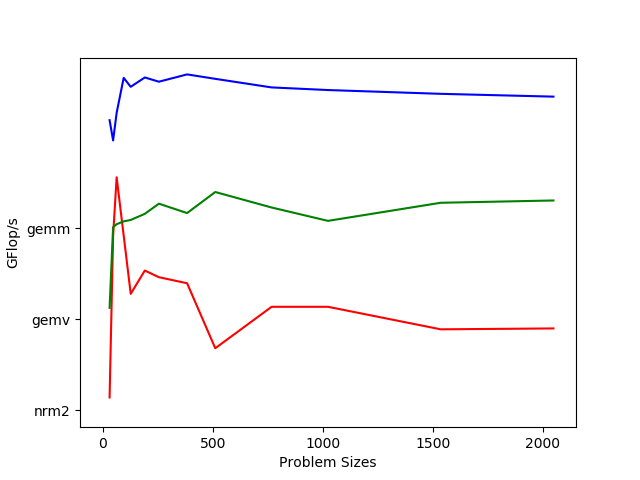
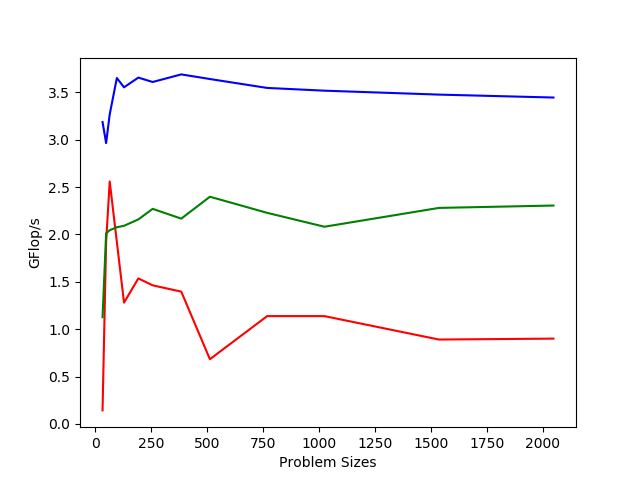
Refine ex1 and ex2 documents

diff --git a/ex2/plot.rb b/ex2/plot.rb
@@ -1,0 +1,34 @@
+#!/usr/bin/env ruby
+
+require 'csv'
+require 'matplotlib/pyplot'
+
+times = CSV.parse(File.read('ex2.csv'))
+
+0.upto(times.size - 1) do |i|
+  times[i] = times[i].map { |x| x.to_f}
+end
+
+getrf_n_gflop = times[0].map { |size| (1.0 / 6.0) * size * (size + 1) * (4.0 * size + 5) }
+getrf_p_gflop = times[0].map { |size| (1.0 / 6.0) * size * (size + 1) * (4.0 * size + 5) }
+
+getrf_n_perf = []
+getrf_p_perf = []
+
+getrf_n_gflop.each_with_index do |gflop, idx|
+  getrf_n_perf << gflop / times[1][idx]
+end
+
+getrf_p_gflop.each_with_index do |gflop, idx|
+  getrf_p_perf << gflop / times[2][idx]
+end
+
+plt = Matplotlib::Pyplot
+
+plt.xlabel("Problem Sizes")
+plt.ylabel("GFlop/s")
+
+line1 = plt.plot(times[0], getrf_n_perf, 'g')
+line2 = plt.plot(times[0], getrf_p_perf, 'b')
+
+plt.savefig('ex2.png')

diff --git a/ex1/plot.rb b/ex1/plot.rb
@@ -34,10 +34,8 @@ plt = Matplotlib::Pyplot
 plt.xlabel("Problem Sizes")
 plt.ylabel("GFlop/s")
 
-plt.plot(times[0], nrm2_perf, 'r', label='nrm2')
-plt.plot(times[0], gemv_perf, 'g', label='gemv')
-plt.plot(times[0], gemm_perf, 'b', label='gemm')
-
-plt.legend()
+plt.plot(times[0], nrm2_perf, 'r')
+plt.plot(times[0], gemv_perf, 'g')
+plt.plot(times[0], gemm_perf, 'b')
 
 plt.savefig('ex1.png')

diff --git a/ex2/ex2.cpp b/ex2/ex2.cpp
@@ -4,7 +4,6 @@
 #include <algorithm>
 #include <numeric>
 #include <chrono>
-#include <functional>
 
 template <typename T>
 void getrf(int n, T* A, int lda) noexcept {

diff --git a/ex2/README.md b/ex2/README.md
@@ -1,0 +1,22 @@
+HPSC 2018 Exercise 2
+====================
+
+The code `ex2.cpp` contains the naive implementations of required functions.
+One can change `test_sizes` in code to change test problems, use `make` to
+compile. Also a Ruby script provided to visualize the performance results,
+use `make plot` to run and generate performance figure.
+
+Problem Analysis
+====================
+
+The computational cost of LU factorization is about O(2n/3) where n is the
+row/column dimension of the matrix.
+
+Performance Results
+====================
+
+I've tried my LU implementation on random generated matrices in various sizes,
+the performance result is as below. The green line is LU factorization without
+pivoting and the blue one is with pivoting.
+
+![GFlops/Size](ex2.png)

diff --git a/ex1/README.md b/ex1/README.md
@@ -11,13 +11,22 @@ Problem Analysis
 
 1. Norm
 
+    The computational complexity is aobut O(2 * size).
+
 2. Matrix-vector product
+
+    The computational complexity is about O(2 * size^2).
 
 3. Matrix-matrix multiplication
 
+    The computational complexity is about O(2 * size^3).
 
 Performance Results
 ====================
 
-![GFlops/Size](ex1.png)
+The performance result figure is plotted as below, the red line is the result
+for `nrm2`, green line is for `gemv`, blue line is for `gemm`. Since I supports
+`lda` and `incx` in my implementation, my plotting script also include these 
+extra computations in computing total complexity.
 
+![GFlops/Size](ex1.png)
